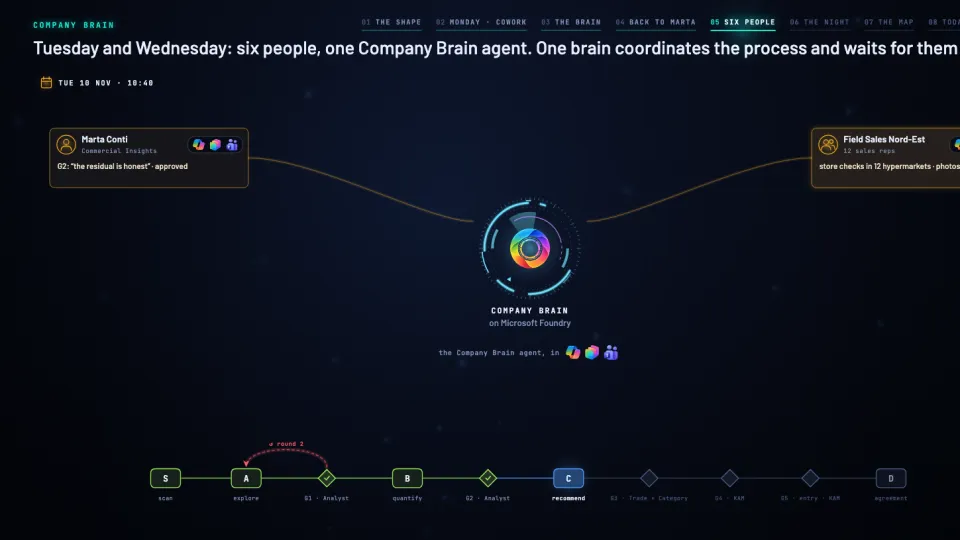
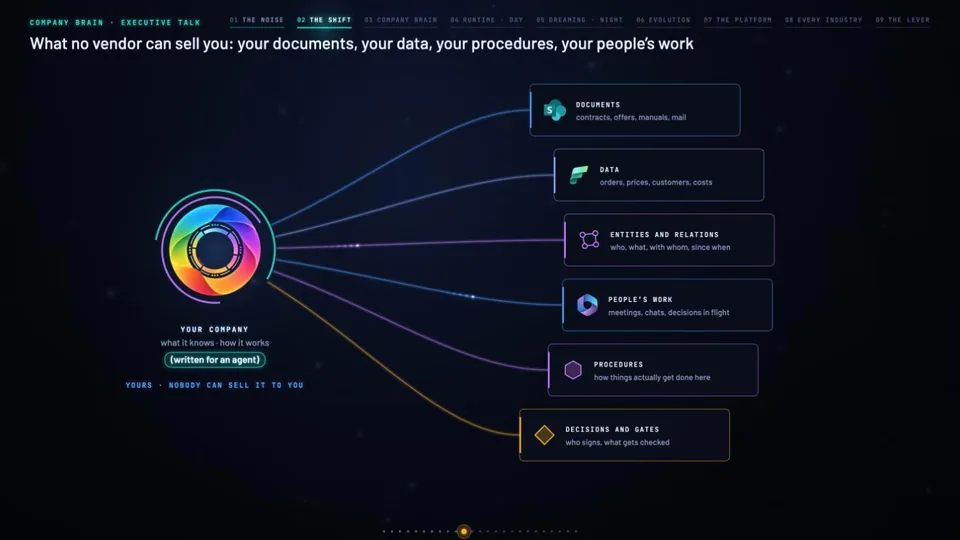
Home (EN, IT): i pitch diventano tre livelli — Intelligent Layer passa a livello 50 (anteprima rinominata pitch-50), il nuovo Executive brief è il livello 100 (sito proprio, anteprima pitch-100), la keynote resta 200-300
Claude-Session: https://claude.ai/code/session_019X9BjZtBuT7djTPnQcfVMx

diff --git a/it/index.html b/it/index.html
@@ -107,12 +107,21 @@ footer a { color: inherit; }
     <h2 id="t-pitch">Pitch</h2>
     <div class="griglia">
       <article class="card">
-        <a class="anteprima" href="https://orange-dune-063225903.6.azurestaticapps.net/anonimo/01%20Company%20Brain%20Intelligent%20Layer.html#lang=it" target="_blank" rel="noopener" tabindex="-1" aria-hidden="true"><img src="../assets/cards/pitch-100.webp" alt="" width="960" height="540" loading="lazy"></a>
+        <a class="anteprima" href="https://orange-dune-063225903.6.azurestaticapps.net/anonimo/01%20Company%20Brain%20Intelligent%20Layer.html#lang=it" target="_blank" rel="noopener" tabindex="-1" aria-hidden="true"><img src="../assets/cards/pitch-50.webp" alt="" width="960" height="540" loading="lazy"></a>
         <div class="corpo">
-          <span class="livello">Livello 100</span>
+          <span class="livello">Livello 50</span>
           <h3>Intelligent Layer</h3>
           <p>Il Company Brain come forma concreta dell’intelligent layer, in pochi minuti.</p>
           <div class="azioni"><a class="pulsante primario" href="https://orange-dune-063225903.6.azurestaticapps.net/anonimo/01%20Company%20Brain%20Intelligent%20Layer.html#lang=it" target="_blank" rel="noopener">Apri</a><button class="copia" type="button">Copia link</button></div>
+        </div>
+      </article>
+      <article class="card">
+        <a class="anteprima" href="https://polite-plant-0bf6c6203.4.azurestaticapps.net/01%20Company%20Brain%20Executive.html#lang=it" target="_blank" rel="noopener" tabindex="-1" aria-hidden="true"><img src="../assets/cards/pitch-100.webp" alt="" width="960" height="540" loading="lazy"></a>
+        <div class="corpo">
+          <span class="livello">Livello 100</span>
+          <h3>Executive brief</h3>
+          <p>Perché un Company Brain, che cos'è, come lavora di giorno e di notte, e perché su Microsoft: il racconto per i manager.</p>
+          <div class="azioni"><a class="pulsante primario" href="https://polite-plant-0bf6c6203.4.azurestaticapps.net/01%20Company%20Brain%20Executive.html#lang=it" target="_blank" rel="noopener">Apri</a><button class="copia" type="button">Copia link</button></div>
         </div>
       </article>
       <article class="card">

diff --git a/index.html b/index.html
@@ -107,12 +107,21 @@ footer a { color: inherit; }
     <h2 id="t-pitch">Pitch</h2>
     <div class="griglia">
       <article class="card">
-        <a class="anteprima" href="https://orange-dune-063225903.6.azurestaticapps.net/anonimo/" target="_blank" rel="noopener" tabindex="-1" aria-hidden="true"><img src="assets/cards/pitch-100.webp" alt="" width="960" height="540" loading="lazy"></a>
+        <a class="anteprima" href="https://orange-dune-063225903.6.azurestaticapps.net/anonimo/" target="_blank" rel="noopener" tabindex="-1" aria-hidden="true"><img src="assets/cards/pitch-50.webp" alt="" width="960" height="540" loading="lazy"></a>
         <div class="corpo">
-          <span class="livello">Level 100</span>
+          <span class="livello">Level 50</span>
           <h3>Intelligent Layer</h3>
           <p>The Company Brain as the concrete form of the intelligent layer, in a few minutes.</p>
           <div class="azioni"><a class="pulsante primario" href="https://orange-dune-063225903.6.azurestaticapps.net/anonimo/" target="_blank" rel="noopener">Open</a><button class="copia" type="button">Copy link</button></div>
+        </div>
+      </article>
+      <article class="card">
+        <a class="anteprima" href="https://polite-plant-0bf6c6203.4.azurestaticapps.net/" target="_blank" rel="noopener" tabindex="-1" aria-hidden="true"><img src="assets/cards/pitch-100.webp" alt="" width="960" height="540" loading="lazy"></a>
+        <div class="corpo">
+          <span class="livello">Level 100</span>
+          <h3>Executive brief</h3>
+          <p>Why a Company Brain, what it is, how it works by day and by night, and why on Microsoft: the executive story.</p>
+          <div class="azioni"><a class="pulsante primario" href="https://polite-plant-0bf6c6203.4.azurestaticapps.net/" target="_blank" rel="noopener">Open</a><button class="copia" type="button">Copy link</button></div>
         </div>
       </article>
       <article class="card">
